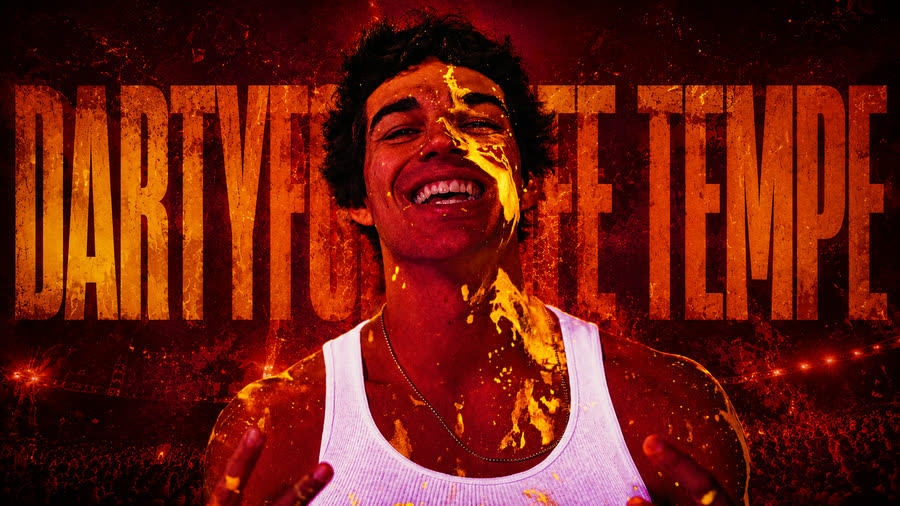
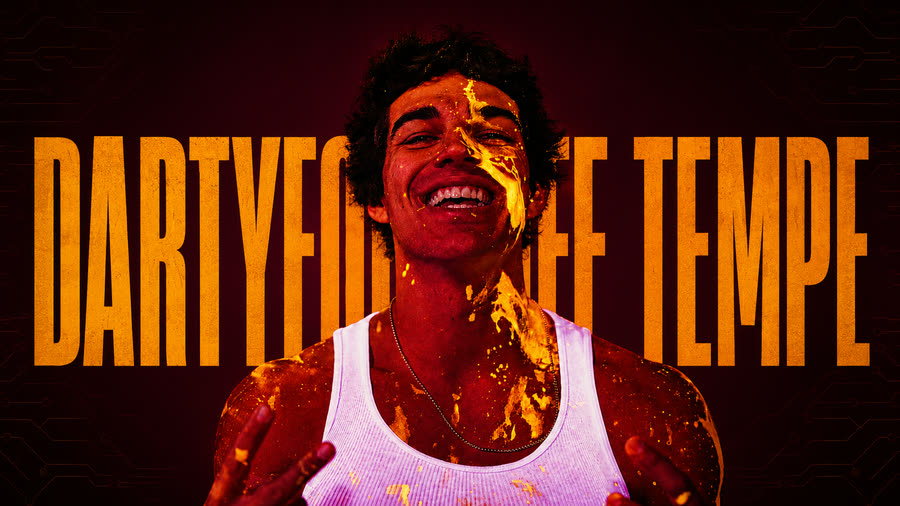
Rebuild the Tempe intro with the new artwork, full bleed
Restores the intro section removed last round, using the artwork he supplied.
The framed-card treatment is what got cut before, so this is true full bleed:
no radius, no shadow, no inset, and the nav floats over the art's dark top
strip the same way it does over the hero video on the home page.

The art is 16:9 with the wordmark spanning its full width, so it is never
cropped — sideways cropping cuts the wordmark and there is no safe axis on a
portrait phone. Instead it renders at natural ratio and any leftover height is
filled with #110002, sampled from the artwork's own left/right/top edges, so
no letterbox is visible. The bottom edge is lighter where the subject is cut
off, so a short gradient dissolves him into the page.

Phones get 64px of top padding: at 390px the art is only 219px tall and a
floating nav covers the top of the wordmark. The strip above is the artwork's
own edge colour, so the offset reads as breathing room, not an inset.

Also reverts last round's page-top clearance rules, which existed only because
there was no hero, and returns the h1 to the artwork (#events back to h2).

Ratio verified intact and no overflow at 320/375/390/430/768/1024/1440/1920.

diff --git a/tempe.html b/tempe.html
@@ -12,11 +12,11 @@
 <link rel="canonical" href="https://dartyforlife.com/tempe.html" />
 <meta property="og:title" content="DartyForLife Tempe" />
 <meta property="og:description" content="The college side of Darty. Every Thursday at The Rack, Old Town Scottsdale." />
-<meta property="og:image" content="https://dartyforlife.com/media/brand/tempe-intro.jpg?v=1" />
+<meta property="og:image" content="https://dartyforlife.com/media/brand/tempe-intro.jpg?v=2" />
 <link rel="preconnect" href="https://fonts.googleapis.com" />
 <link rel="preconnect" href="https://fonts.gstatic.com" crossorigin />
 <link href="https://fonts.googleapis.com/css2?family=Anton&family=Inter:wght@400;500;600;700;800&display=swap" rel="stylesheet" />
-<link rel="stylesheet" href="styles.css?v=26" />
+<link rel="stylesheet" href="styles.css?v=27" />
 <script>if(navigator.globalPrivacyControl===true){window.doNotTrack="1"}</script>
   <script defer src="https://site-stats-dartyforlife.vercel.app/script.js" data-website-id="b3256c0a-fb20-445a-bf64-9430fa7dd86a" data-domains="dartyforlife.com,www.dartyforlife.com" data-do-not-track="true"></script>
 </head>
@@ -27,16 +27,39 @@
 
 <main>
 
+<!-- Tempe intro. TRUE full bleed: the artwork runs edge to edge with no frame,
+     no radius and no shadow, and the nav floats over its dark top strip the
+     same way it does over the video on the home page.
+     The art is 16:9 with the wordmark spanning the full width, so it is NEVER
+     cropped — cropping sideways cuts the wordmark, and cropping vertically is
+     the only safe axis. Leftover height is filled with the artwork's own edge
+     colour (#110002, sampled from its left/right/top edges) so no letterbox
+     is visible. The bottom edge is lighter, where the subject is cut off, so
+     a short gradient dissolves him into the page instead of guillotining him. -->
+<section class="tempe-intro">
+  <!-- the artwork carries the wordmark, so it IS the title, exactly as the
+       neon sign is the title on the Darty Bars page -->
+  <h1 class="sr-only">DartyForLife Tempe</h1>
+  <picture class="tempe-art">
+    <source media="(max-width:700px)" srcset="media/brand/tempe-intro-900.jpg?v=2" />
+    <img src="media/brand/tempe-intro.jpg?v=2" width="1672" height="941" fetchpriority="high"
+         alt="DartyForLife Tempe: a partygoer covered in gold paint in front of a crowd" />
+  </picture>
+  <div class="tempe-intro-copy">
+    <p class="sec-sub">The college side of Darty. Every Thursday at The Rack in Old Town Scottsdale. Ages 21 &amp; over.</p>
+  </div>
+</section>
+
 <div class="marquee"><div class="marquee-track" id="mq1"></div></div>
 
 <section id="events">
   <div class="wrap">
     <div class="sec-head row reveal">
       <div>
-        <span class="eyebrow asu">DartyForLife Tempe · Thursdays · Old Town Scottsdale</span>
-        <h1 class="sec-title">Tempe <em class="asu">nights</em></h1>
+        <span class="eyebrow asu">The calendar</span>
+        <h2 class="sec-title">Tempe <em class="asu">nights</em></h2>
       </div>
-      <p class="sec-sub">The college side of Darty. Every Thursday at The Rack in Old Town Scottsdale. Ages 21 &amp; over.</p>
+      <p class="sec-sub">Updates itself every day, straight from our box office on Posh.</p>
     </div>
     <div class="event-grid" data-events data-series="tempe"></div>
   </div>

diff --git a/styles.css b/styles.css
@@ -944,14 +944,31 @@ body.theme-bars{
 .pt-tempe{padding:150px 26px 40px}
 
 /* ============================================================
-   TEMPE PAGE TOP
-   The intro artwork was removed at his request, so the marquee is now the
-   first thing under the FIXED header and needs its own clearance — without
-   this it tucks underneath the nav.
+   TEMPE INTRO — full bleed, no frame
+   #110002 is sampled from the artwork's own left/right/top edges, so any
+   height the 16:9 art doesn't fill is indistinguishable from the art itself.
+   No radius, no shadow, no inset: the framed-photo version of this got cut.
    ============================================================ */
-.theme-tempe main > .marquee:first-child{margin-top:78px}
-@media (max-width:760px){ .theme-tempe main > .marquee:first-child{margin-top:66px} }
-.theme-tempe #events{padding-top:56px}
+.tempe-intro{position:relative;background:#110002;display:flex;flex-direction:column;
+  justify-content:center;align-items:center;min-height:62svh;padding:0 0 52px;text-align:center}
+/* art sits flush to the top so the nav floats over its dark strip, exactly
+   like the nav over the hero video on the home page */
+.tempe-art{position:relative;display:block;width:100%}
+.tempe-art img{display:block;width:100%;height:auto}
+/* the artwork's bottom edge cuts through the subject, so dissolve him into
+   the page rather than ending on a hard horizontal seam */
+.tempe-art::after{content:"";position:absolute;inset:auto 0 0 0;height:22%;pointer-events:none;
+  background:linear-gradient(180deg,transparent,rgba(17,0,2,.65) 58%,#110002)}
+.tempe-intro-copy{position:relative;z-index:2;max-width:760px;padding:26px 22px 0}
+.tempe-intro .sec-sub{margin-inline:auto;color:#f0d9c6;max-width:52ch}
+@media (max-width:760px){
+  /* On a phone the 16:9 art is only ~219px tall, so a nav floating over it
+     covers the top of the wordmark. Push the art clear of the fixed header —
+     the strip above it is the artwork's own edge colour, so the offset is
+     invisible and it just reads as breathing room. */
+  .tempe-intro{min-height:0;padding:64px 0 40px}
+  .tempe-intro-copy{padding:22px 16px 0}
+}
 
 .pt-photo img{width:100%;height:100%;object-fit:cover}
 .pt-photo::after{content:"";position:absolute;inset:0;background:linear-gradient(180deg,transparent 70%,rgba(7,5,9,.55))}

diff --git a/bars.html b/bars.html
@@ -16,7 +16,7 @@
 <link rel="preconnect" href="https://fonts.googleapis.com" />
 <link rel="preconnect" href="https://fonts.gstatic.com" crossorigin />
 <link href="https://fonts.googleapis.com/css2?family=Anton&family=Inter:wght@400;500;600;700;800&display=swap" rel="stylesheet" />
-<link rel="stylesheet" href="styles.css?v=26" />
+<link rel="stylesheet" href="styles.css?v=27" />
 <script>if(navigator.globalPrivacyControl===true){window.doNotTrack="1"}</script>
   <script defer src="https://site-stats-dartyforlife.vercel.app/script.js" data-website-id="b3256c0a-fb20-445a-bf64-9430fa7dd86a" data-domains="dartyforlife.com,www.dartyforlife.com" data-do-not-track="true"></script>
 </head>

diff --git a/majors.html b/majors.html
@@ -16,7 +16,7 @@
 <link rel="preconnect" href="https://fonts.googleapis.com" />
 <link rel="preconnect" href="https://fonts.gstatic.com" crossorigin />
 <link href="https://fonts.googleapis.com/css2?family=Anton&family=Inter:wght@400;500;600;700;800&display=swap" rel="stylesheet" />
-<link rel="stylesheet" href="styles.css?v=26" />
+<link rel="stylesheet" href="styles.css?v=27" />
 <script>if(navigator.globalPrivacyControl===true){window.doNotTrack="1"}</script>
   <script defer src="https://site-stats-dartyforlife.vercel.app/script.js" data-website-id="b3256c0a-fb20-445a-bf64-9430fa7dd86a" data-domains="dartyforlife.com,www.dartyforlife.com" data-do-not-track="true"></script>
 </head>

diff --git a/privacy.html b/privacy.html
@@ -12,7 +12,7 @@
 <link rel="preconnect" href="https://fonts.googleapis.com" />
 <link rel="preconnect" href="https://fonts.gstatic.com" crossorigin />
 <link href="https://fonts.googleapis.com/css2?family=Anton&family=Inter:wght@400;500;600;700;800&display=swap" rel="stylesheet" />
-<link rel="stylesheet" href="styles.css?v=26" />
+<link rel="stylesheet" href="styles.css?v=27" />
 <script>if(navigator.globalPrivacyControl===true){window.doNotTrack="1"}</script>
   <script defer src="https://site-stats-dartyforlife.vercel.app/script.js" data-website-id="b3256c0a-fb20-445a-bf64-9430fa7dd86a" data-domains="dartyforlife.com,www.dartyforlife.com" data-do-not-track="true"></script>
 </head>

diff --git a/rentals.html b/rentals.html
@@ -16,7 +16,7 @@
 <link rel="preconnect" href="https://fonts.googleapis.com" />
 <link rel="preconnect" href="https://fonts.gstatic.com" crossorigin />
 <link href="https://fonts.googleapis.com/css2?family=Anton&family=Inter:wght@400;500;600;700;800&display=swap" rel="stylesheet" />
-<link rel="stylesheet" href="styles.css?v=26" />
+<link rel="stylesheet" href="styles.css?v=27" />
 <script>if(navigator.globalPrivacyControl===true){window.doNotTrack="1"}</script>
   <script defer src="https://site-stats-dartyforlife.vercel.app/script.js" data-website-id="b3256c0a-fb20-445a-bf64-9430fa7dd86a" data-domains="dartyforlife.com,www.dartyforlife.com" data-do-not-track="true"></script>
 </head>

diff --git a/index.html b/index.html
@@ -28,7 +28,7 @@
 <link rel="preconnect" href="https://fonts.gstatic.com" crossorigin />
 <link href="https://fonts.googleapis.com/css2?family=Anton&family=Inter:wght@400;500;600;700;800&display=swap" rel="stylesheet" />
 <link rel="stylesheet" href="https://unpkg.com/leaflet@1.9.4/dist/leaflet.css" />
-<link rel="stylesheet" href="styles.css?v=26" />
+<link rel="stylesheet" href="styles.css?v=27" />
 <script type="application/ld+json">
 {"@context":"https://schema.org","@type":"Organization","name":"DartyForLife",
  "alternateName":"Darty For Life · Desert Drinkers","url":"https://dartyforlife.com",

diff --git a/texts.html b/texts.html
@@ -16,7 +16,7 @@
 <link rel="preconnect" href="https://fonts.googleapis.com" />
 <link rel="preconnect" href="https://fonts.gstatic.com" crossorigin />
 <link href="https://fonts.googleapis.com/css2?family=Anton&family=Inter:wght@400;500;600;700;800&display=swap" rel="stylesheet" />
-<link rel="stylesheet" href="styles.css?v=26" />
+<link rel="stylesheet" href="styles.css?v=27" />
 <script>if(navigator.globalPrivacyControl===true){window.doNotTrack="1"}</script>
 <style>
   .tx-wrap{max-width:560px;margin:0 auto;padding:0 22px}
